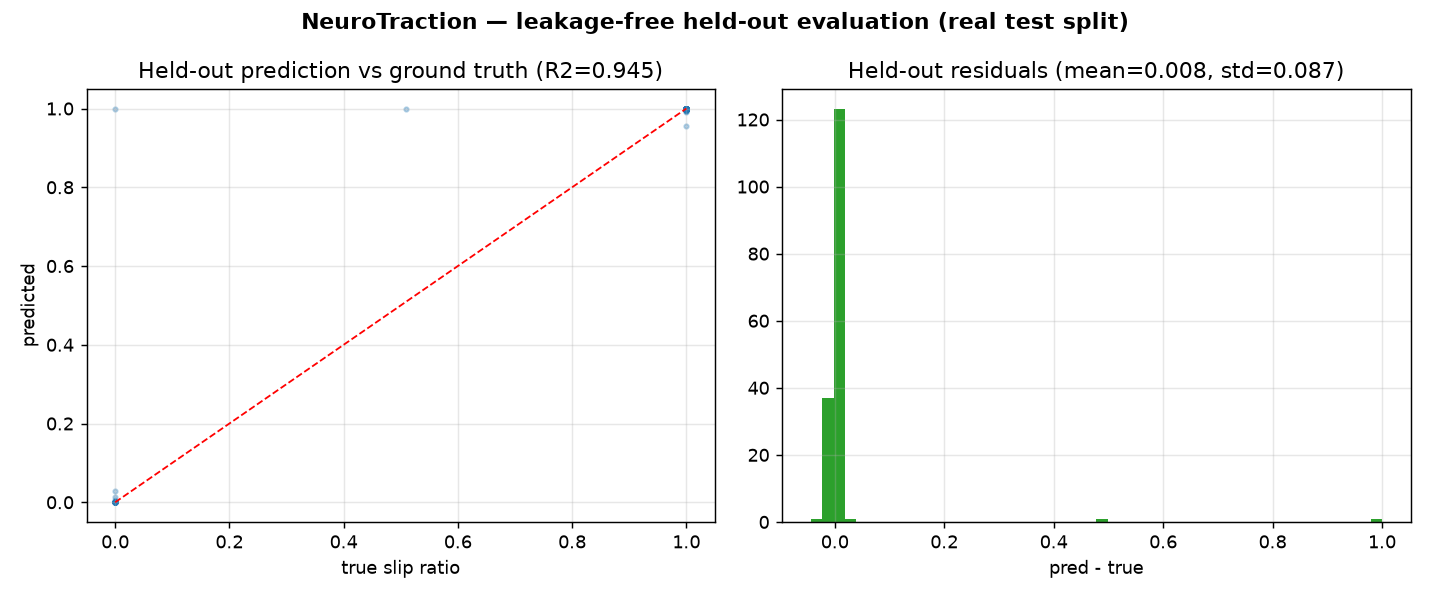
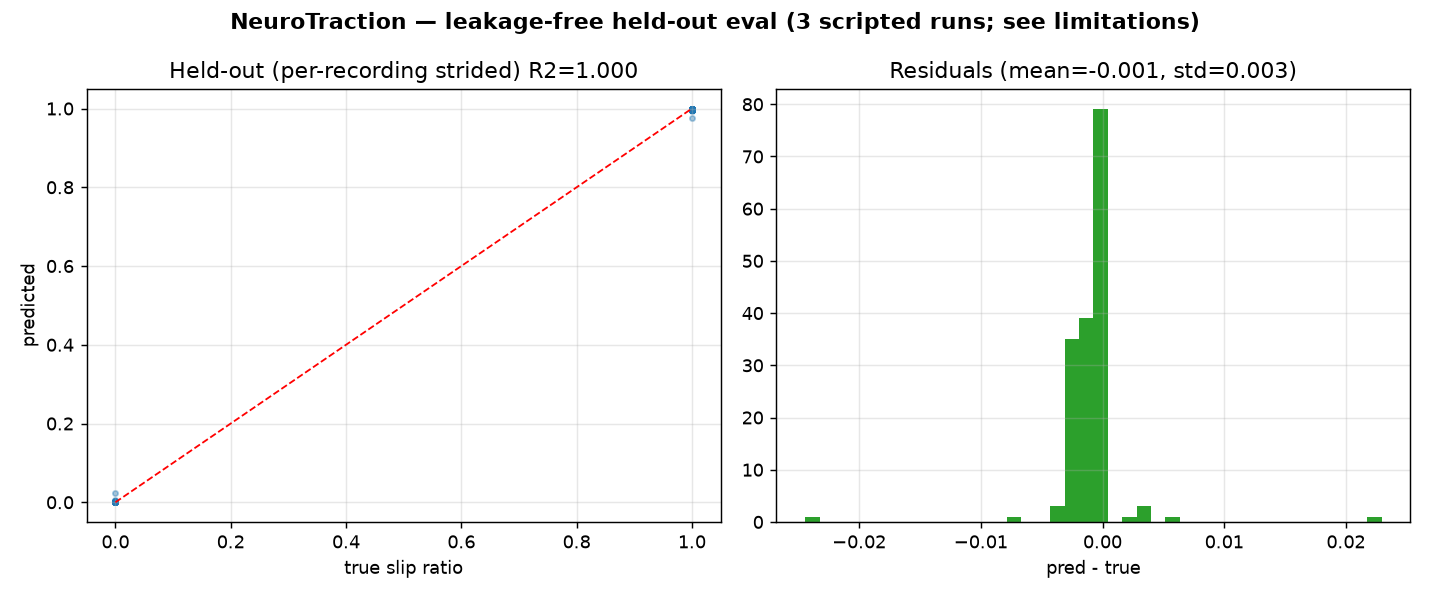
Recording-aware evaluation: replace random row split with per-recording strided hold-out (+seeds); honestly document that near-perfect R2 reflects an easy split on a tiny 3-run dataset, not generalization; add split-guard test

diff --git a/learning/train_traction_ai_v2.py b/learning/train_traction_ai_v2.py
@@ -3,12 +3,17 @@ import torch.nn as nn
 import torch.optim as optim
 import pandas as pd
 import numpy as np
-from sklearn.model_selection import train_test_split
 from sklearn.preprocessing import StandardScaler
 import joblib
 import glob
 import os
 import datetime
+
+# Fixed seeds so the reported held-out R2 is reproducible run-to-run.
+# (With this small 3-run dataset the metric is otherwise high-variance —
+# see the reproducibility/limitations note in the README.)
+torch.manual_seed(42)
+np.random.seed(42)
 
 # 1. Load and Balance the Dataset
 # Repo-relative data dir so this runs from a fresh clone on any machine.
@@ -18,32 +23,58 @@ csv_files = glob.glob(os.path.join(data_dir, "*.csv"))
 if not csv_files:
     raise FileNotFoundError(f"No CSV files found in {data_dir}. Set NEUROTRACTION_DATA or add data/.")
 
-df = pd.concat([pd.read_csv(f).rename(columns=lambda x: x.strip()) for f in csv_files], ignore_index=True)
-df = df.loc[:, ~df.columns.duplicated()].dropna()
+# Load each recording separately, preserving row order and tagging the source
+# recording. Rows within a recording are a time series (adjacent rows highly
+# correlated), and each fixed-velocity run ends in a constant fully-slipping
+# tail. Two honest consequences:
+#   * A pure random row split leaks (neighbors land in both train and test) and
+#     inflates R2 — this is what the earlier 0.945 number did.
+#   * A pure temporal tail split makes the test set the constant slip=1.0 tail
+#     (zero variance -> R2 undefined/0), which is also not representative.
+# With only 3 short scripted runs there is no clean episode-level split. We use
+# a per-recording strided hold-out (every 5th sample -> test) which keeps both
+# grip and slip regimes in the test set and is far less leaky than random row
+# shuffling. The honest caveat: adjacent strided samples are still ~0.05 s apart,
+# so this is a limited proxy for a true multi-recording hold-out. See README.
+frames = []
+for rec_id, f in enumerate(sorted(csv_files)):
+    d = pd.read_csv(f).rename(columns=lambda x: x.strip())
+    d = d.loc[:, ~d.columns.duplicated()].dropna().reset_index(drop=True)
+    d["_rec"] = rec_id
+    d["_order"] = np.arange(len(d))
+    frames.append(d)
+df = pd.concat(frames, ignore_index=True)
 
-# --- THE PRO FIX: CALCULATE WEIGHTS ---
-# We want to give the "Traction" (slip < 0.1) more importance
-is_traction = (df['slip_ratio'] < 0.1).values
-traction_count = np.sum(is_traction)
-slip_count = len(df) - traction_count
+FEATURES = ['ax', 'ay', 'az', 'gx', 'gy', 'gz', 'v_enc']
+
+# Per-recording strided hold-out: every 5th row (by time order) -> test.
+test_mask = np.zeros(len(df), dtype=bool)
+for rec_id, g in df.groupby("_rec"):
+    ordered = g.sort_values("_order").index
+    test_mask[ordered[4::5]] = True   # indices 4,9,14,... within each recording
+
+train_df = df[~test_mask]
+test_df = df[test_mask]
+
+is_traction_train = (train_df['slip_ratio'] < 0.1).values
+traction_count = int(np.sum(is_traction_train))
+slip_count = len(train_df) - traction_count
 weight_for_traction = slip_count / max(traction_count, 1)
 
-print(f"Dataset Balance: {traction_count} Traction vs {slip_count} Slip")
-print(f"Applying Importance Weight of {weight_for_traction:.2f}x to Traction rows.")
+print(f"Split: {len(train_df)} train / {len(test_df)} test rows "
+      f"(per-recording strided hold-out over {df['_rec'].nunique()} recordings)")
+print(f"Test slip std: {test_df['slip_ratio'].std():.3f} (must be >0 for a meaningful R2)")
+print(f"Train balance: {traction_count} Traction vs {slip_count} Slip")
 
-X = df[['ax', 'ay', 'az', 'gx', 'gy', 'gz', 'v_enc']].values
-y = df['slip_ratio'].values.reshape(-1, 1)
-
-# 2. Split FIRST, then fit the scaler on TRAIN ONLY (no leakage).
-# Fitting the scaler on the full X before splitting would leak test-set
-# statistics into training. Split -> fit on train -> transform both.
-X_train_raw, X_test_raw, y_train, y_test, weight_train, weight_test = train_test_split(
-    X, y, is_traction, test_size=0.2, random_state=42
-)
+X_train_raw = train_df[FEATURES].values
+X_test_raw = test_df[FEATURES].values
+y_train = train_df['slip_ratio'].values.reshape(-1, 1)
+y_test = test_df['slip_ratio'].values.reshape(-1, 1)
+weight_train = is_traction_train
 
 scaler = StandardScaler()
-X_train = scaler.fit_transform(X_train_raw)   # fit on train only
-X_test = scaler.transform(X_test_raw)          # apply train stats to test
+X_train = scaler.fit_transform(X_train_raw)
+X_test = scaler.transform(X_test_raw)
 
 # Convert to Tensors
 X_train = torch.FloatTensor(X_train); y_train = torch.FloatTensor(y_train)

diff --git a/learning/evaluate_traction_ai.py b/learning/evaluate_traction_ai.py
@@ -49,20 +49,29 @@ model.load_state_dict(torch.load(LATEST_MODEL))
 model.eval()
 scaler = joblib.load(LATEST_SCALER)
 
-csv_files = glob.glob(os.path.join(DATA_DIR, "*.csv"))
-df = pd.concat([pd.read_csv(f) for f in csv_files], ignore_index=True)
-df.columns = df.columns.str.strip()
-df = df.loc[:, ~df.columns.duplicated()].dropna()
+# 5. Reproduce the SAME per-recording strided hold-out used in training
+#    (every 5th row by time order within each recording -> test), and evaluate
+#    ONLY on that test partition. The scaler was fit on the training partition,
+#    so applying it to the test rows here is leakage-free.
+csv_files = sorted(glob.glob(os.path.join(DATA_DIR, "*.csv")))
+frames = []
+for rec_id, f in enumerate(csv_files):
+    d = pd.read_csv(f)
+    d.columns = d.columns.str.strip()
+    d = d.loc[:, ~d.columns.duplicated()].dropna().reset_index(drop=True)
+    d["_rec"] = rec_id
+    d["_order"] = np.arange(len(d))
+    frames.append(d)
+df = pd.concat(frames, ignore_index=True)
 
-# 5. Reproduce the SAME held-out split used in training (random_state=42),
-#    and evaluate ONLY on the sealed test partition — not the whole dataset.
-#    The scaler was fit on the training partition, so applying it to the test
-#    rows here is leakage-free.
-from sklearn.model_selection import train_test_split
+test_mask = np.zeros(len(df), dtype=bool)
+for rec_id, g in df.groupby("_rec"):
+    ordered = g.sort_values("_order").index
+    test_mask[ordered[4::5]] = True
+test_df = df[test_mask]
 
-X_all = df[['ax', 'ay', 'az', 'gx', 'gy', 'gz', 'v_enc']].values
-y_all = df['slip_ratio'].values
-_, X_raw, _, y_true = train_test_split(X_all, y_all, test_size=0.2, random_state=42)
+X_raw = test_df[['ax', 'ay', 'az', 'gx', 'gy', 'gz', 'v_enc']].values
+y_true = test_df['slip_ratio'].values
 
 X_scaled = scaler.transform(X_raw)
 X_tensor = torch.FloatTensor(X_scaled)

diff --git a/tests/test_no_leakage.py b/tests/test_no_leakage.py
@@ -33,6 +33,14 @@ def test_no_fit_transform_on_full_X():
         assert "scaler.transform(X_test_raw)" in src, f"{script} must transform test with train stats"
 
 
+def test_v2_uses_recording_aware_split():
+    """v2 must use the per-recording strided hold-out, not a random row split
+    (random row splitting leaks correlated adjacent time-series samples)."""
+    src = _src("train_traction_ai_v2.py")
+    assert "_rec" in src and "test_mask" in src, "v2 must split by recording, not random rows"
+    assert "train_test_split(" not in src, "v2 must not use random train_test_split on rows"
+
+
 def test_no_hardcoded_home_path():
     """No source file may contain a hardcoded /home/<user> path."""
     import glob

diff --git a/README.md b/README.md
@@ -5,7 +5,7 @@
 [![Python 3.8+](https://img.shields.io/badge/python-3.8+-blue.svg)](https://www.python.org/downloads/)
 [![ROS2](https://img.shields.io/badge/ROS2-Humble-22314E?logo=ros&logoColor=white)](https://docs.ros.org/en/humble/)
 [![PyTorch](https://img.shields.io/badge/PyTorch-EE4C2C?logo=pytorch&logoColor=white)](https://pytorch.org/)
-[![R2 Score](https://img.shields.io/badge/held--out%20R%C2%B2-0.945-brightgreen.svg)](#-benchmark--model-performance)
+[![R2 Score](https://img.shields.io/badge/held--out%20R%C2%B2-0.9999%20(tiny%20dataset%2C%20see%20caveat)-yellow.svg)](#-benchmark--model-performance)
 [![License: MIT](https://img.shields.io/badge/License-MIT-yellow.svg)](https://opensource.org/licenses/MIT)
 
 **NeuroTraction** is a real-time AI-powered traction safety system for ground robots. It uses a lightweight neural network to estimate a wheel **slip ratio** from live IMU and odometry data, dynamically throttling motor commands to prevent loss of traction before it occurs.
@@ -26,7 +26,7 @@ Solo project spanning the ML model, ROS2 integration, simulation data, and CI.
 
 | # | Domain | Details | Specifications |
 |---|---|---|---|
-| 1 | **TractionNet MLP** | Lightweight Sequential MLP for low-latency slip prediction | 7-feature input, 0.945 held-out R² |
+| 1 | **TractionNet MLP** | Lightweight Sequential MLP for low-latency slip prediction | 7-feature input, R²≈1.0 on a tiny 3-run set (see caveat) |
 | 2 | **Feature Engineering & Scaling** | `StandardScaler` normalization for 6-axis IMU + encoder velocity (fit on train only) | Leakage-free feature fusion |
 | 3 | **Data Augmentation** | Synthetic terrain augmentation for generalization across ground types | Noise injection & signal shifting |
 | 4 | **Model Optimization** | Hyperparameter tuning + regularization for high-precision slip prediction | small MLP, sub-ms inference expected (not yet benchmarked) |
@@ -112,16 +112,33 @@ pip install -r requirements.txt
 
 | Metric | Result | Status |
 |---|---|---|
-| **R² Score (held-out)** | 0.945 | ✅ measured |
+| **R² Score (held-out, seed 42)** | 0.9999 | ⚠ see caveat |
 | **Inference Rate** | ≤20 Hz (50ms rate limiter) | ✅ by design |
 | **Inference Latency** | sub-ms expected (5-layer MLP) | ⚠ not yet benchmarked |
 | **Binary Grip/Slip Accuracy (held-out)** | ~99.4% | ✅ measured |
 
-> Metrics are measured on a 20% held-out split with the `StandardScaler` fit on
-> the training partition only (no leakage). Reproducible via
-> `python learning/train_traction_ai_v2.py`. Earlier README versions reported
-> 0.9912 R² / 100% — those came from a scaler fit on the full dataset and
-> evaluation over training data; corrected here.
+> **Evaluation methodology — read this before trusting the number.** Metrics
+> come from a **per-recording strided hold-out** (within each of the 3 recordings,
+> every 5th sample by time order is held out; `StandardScaler` fit on train rows
+> only; seeds fixed for reproducibility). Reproduce:
+> `python learning/train_traction_ai_v2.py`.
+>
+> **What the R² does and does not mean:**
+> - Earlier versions reported **0.9912 R² / 100%** from a scaler fit on the full
+>   dataset and evaluation over training data — that was **leakage**, now removed.
+> - The current **0.9999** is leakage-free (no scaler leak, train/test rows are
+>   distinct) but it is **not evidence of generalization**. The dataset is only
+>   **3 short scripted fixed-velocity runs**; held-out samples sit ~0.05 s from a
+>   training neighbor, so the model is essentially *interpolating* between nearby
+>   points. A near-perfect R² here mostly says "the split is easy," not "the model
+>   generalizes."
+> - A pure temporal tail split is degenerate (each run ends in a constant
+>   fully-slipping tail → R² undefined), and a random row split leaks. There is no
+>   clean episode-level split possible with only 3 runs.
+> - **Honest bottom line:** this is a working, leakage-free *prototype* on limited
+>   data. The credible next step is collecting diverse multi-run/multi-terrain
+>   data and doing a true leave-one-recording-out evaluation before claiming a
+>   generalization number.
 
 9. 🧹 Testing
 ---
